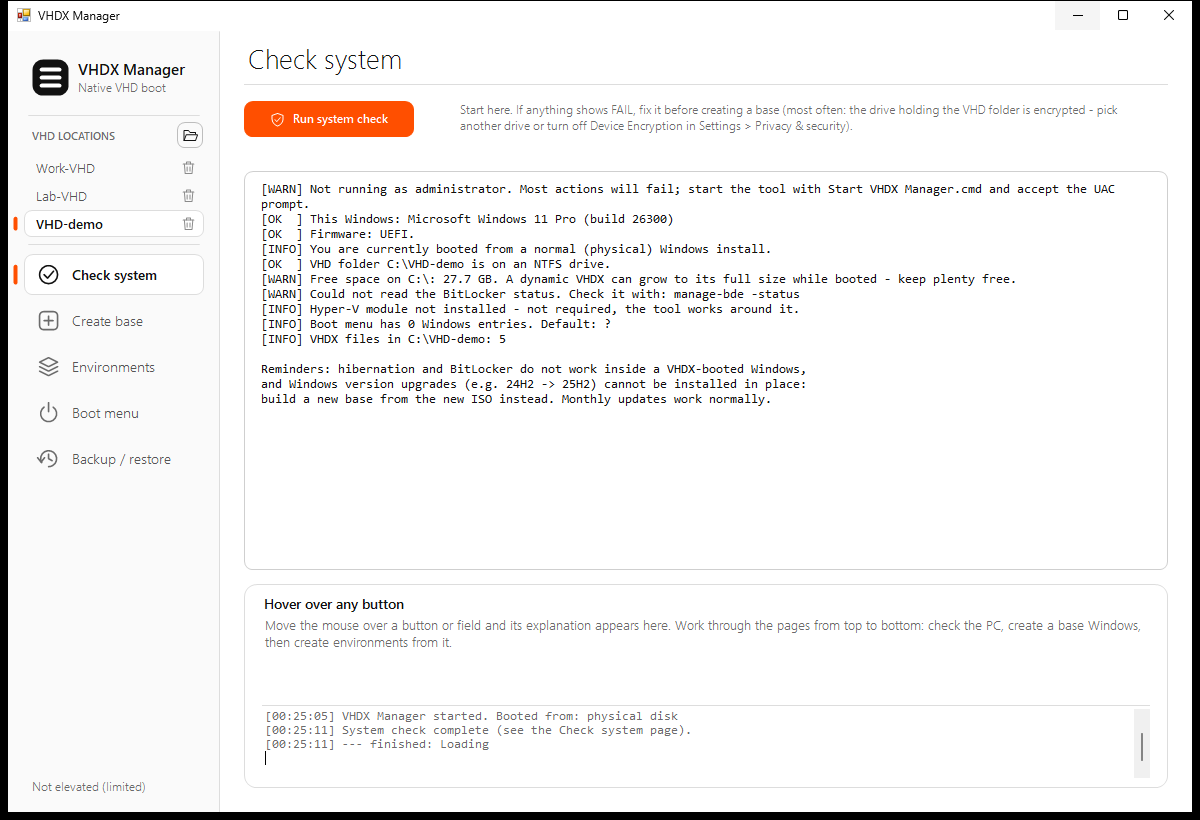
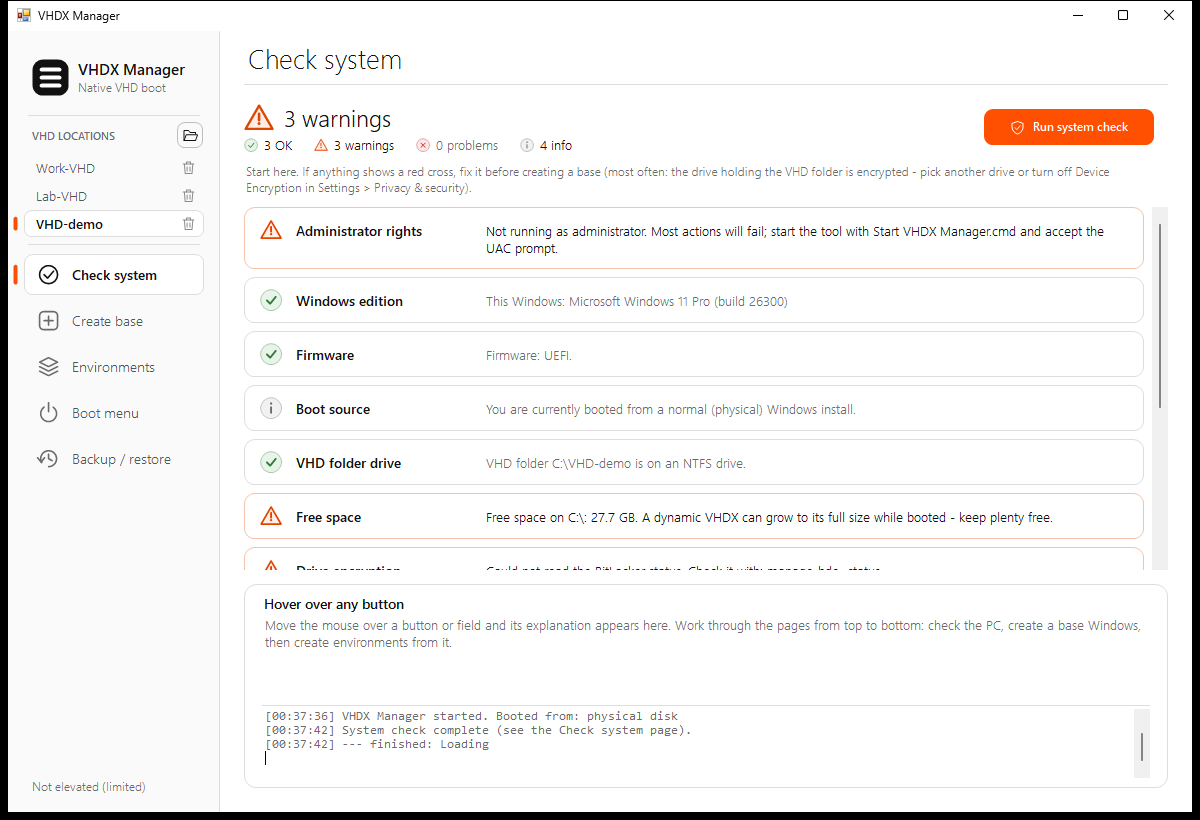
feat(ui): show system check as a summary and a list of status rows
- Add a status summary line with OK/warning/problem/info counts
- Render each check as a rounded row with an icon, title and detail
- Re-run the system check when the VHD location changes
- Update README (Step B, reference) and the check-system screenshot

diff --git a/README.md b/README.md
@@ -135,7 +135,7 @@ Good to know:
 - While an action is running the sidebar (pages and VHD locations list) is disabled and the cursor shows as busy. Long actions show a progress line above the log.
 - The window can be resized and maximized (minimum about 800x680). At small sizes the _Create base_ page scrolls and hides its side instructions. Lists and the log grow with the window.
 - Window size, position and the "keep newest backups" number are remembered in `%APPDATA%\VhdxBootManager\window.json`.
-- Switching to another location, or adding one with the Browse icon, refreshes all lists. Click the active location again to re-read it after changing files outside the tool (the log says _Refreshed._).
+- Switching to another location, or adding one with the Browse icon, refreshes all lists and re-runs the system check for that folder. Click the active location again to re-read it after changing files outside the tool (the log says _Refreshed._).
 - Locations are saved in `config.json` and nothing is assumed when none is saved: see [Step A](#step-a-set-your-vhd-location) and [Guide 9](#guide-9-work-with-several-vhd-locations).
 - Inside a VHDX-booted Windows the physical drive has a different letter (often `D:`). Pick the location again from there (Browse icon) if it is not listed.
 - Folder rules (plain ASCII path, no drive root, NTFS) are in [Step A](#step-a-set-your-vhd-location). If the folder does not exist, the tool creates it.
@@ -176,18 +176,30 @@ Rules for the folder:
 ![Check system page with the system check results](docs/images/01-check-system.png)
 
 1. Click **Check system** in the sidebar (or press **Ctrl+1**).
-2. Click **Run system check**. (It also runs once when the program starts.)
-3. Read the result. Each line starts with `OK`, `INFO`, `WARN` or `FAIL`. The first line reads `OK Running as administrator.` only when the tool is elevated; otherwise it is a `WARN` telling you to start it with `Start VHDX Manager.cmd` and accept the UAC prompt.
+2. Click **Run system check**. (It also runs once when the program starts, and again whenever you switch the VHD location.) Before the first check, or while no VHD location is set, the page shows a friendly placeholder instead of results: _No results yet_ / _Pick a VHD location first_.
+3. Read the **summary** at the top: a big status line (_Everything looks good_, _2 warnings_ or _1 problem to fix_) with small counts of OK, warnings, problems and info rows.
+4. Read the **list**, one rounded row per check with a status icon, a bold title and a one-line detail (long details wrap). The icon shapes differ, so you do not have to rely on colour:
 
-**Expected result:** a list showing Windows edition and build, UEFI firmware, whether you are booted from a VHDX, whether the VHD folder is on an NTFS drive, free space (a warning appears below 150 GB), BitLocker / Device Encryption status of that drive, whether the Hyper-V module is present, the number of boot menu entries and VHDX files found.
+   | Icon                       | Meaning                                                                    |
+   | -------------------------- | -------------------------------------------------------------------------- |
+   | Green check in a circle    | **OK** - this requirement is fine.                                         |
+   | Orange triangle with `!`   | **Warning** - not blocking, but read the detail (the row is outlined in orange). |
+   | Red cross in a circle      | **Problem** - fix it before creating a base (the row is outlined in red).  |
+   | Grey `i` in a circle       | **Info** - just good to know, nothing to fix.                              |
+
+5. Below the list a **Reminders** note says that hibernation and BitLocker do not work inside a VHDX-booted Windows, and that Windows version upgrades (for example 24H2 to 25H2) cannot be installed in place: build a new base from the new ISO instead; monthly updates work normally.
+
+The list scrolls (mouse wheel, scrollbar, or arrow / Page Up / Page Down keys) when it does not fit the window.
+
+**Expected result:** ten rows, in this order: _Administrator rights_ (a warning with a hint to start the tool with `Start VHDX Manager.cmd` and accept the UAC prompt when it is not elevated), _Windows edition_ (this Windows and its build; a warning for Home edition), _Firmware_ (UEFI), _Boot source_ (info: running from a VHDX or a physical install), _VHD folder drive_ (must be NTFS), _Free space_ (a warning appears below 150 GB), _Drive encryption_ (BitLocker / Device Encryption status of that drive), _Hyper-V module_ (info), _Boot menu_ (info: number of entries and the default) and _VHDX files in folder_ (info: how many).
 
 **What can go wrong**
 
-- `FAIL ... encrypted`: native VHDX boot does not work from an encrypted drive. Use another unencrypted NTFS drive (add a folder on it with the Browse icon under VHD LOCATIONS) or turn off Device Encryption in Settings > Privacy & security.
-- `FAIL ... must be NTFS`: pick an NTFS drive.
-- `WARN Home edition`: that is the Windows you are running now. It is fine as long as the Windows you put _inside_ the VHDX is Pro, Enterprise or Education.
-- `WARN Could not read the BitLocker status`: check manually with `manage-bde -status`.
-- The screenshot above was taken without administrator rights, so it shows "Boot menu has 0 Windows entries" and an unknown BitLocker status. On a normal (elevated) start these lines are filled in.
+- _Drive encryption_ shows a red cross ("... is BitLocker / Device Encryption encrypted"): native VHDX boot does not work from an encrypted drive. Use another unencrypted NTFS drive (add a folder on it with the Browse icon under VHD LOCATIONS) or turn off Device Encryption in Settings > Privacy & security.
+- _VHD folder drive_ shows a red cross ("... must be NTFS"): pick an NTFS drive.
+- _Windows edition_ warns about Home edition: that is the Windows you are running now. It is fine as long as the Windows you put _inside_ the VHDX is Pro, Enterprise or Education.
+- _Drive encryption_ warns "Could not read the BitLocker status": check manually with `manage-bde -status`.
+- The screenshot above was taken without administrator rights, so it starts with an _Administrator rights_ warning and (further down) shows "Boot menu has 0 Windows entries" and an unknown BitLocker status. On a normal (elevated) start these rows are filled in. The free-space warning there comes from that PC having less than 150 GB free.
 
 ### Step C: Create the base disk
 
@@ -479,7 +491,7 @@ Use several locations when your VHDX files are spread over folders or drives, fo
 
 1. Click another row in the list.
 
-**Expected result:** the orange marker moves to that row; the _Environments_ and _Backup / restore_ lists (and snapshots, and the `vhd-manager.log` that is written) now refer to that folder. Click the active row again to re-read the folder after you changed files outside the tool (log: _Refreshed._). The last active location is remembered when you close the tool.
+**Expected result:** the orange marker moves to that row; the _Environments_ and _Backup / restore_ lists (and snapshots, and the `vhd-manager.log` that is written) now refer to that folder, and the _Check system_ page shows a fresh system check for it. Click the active row again to re-read the folder after you changed files outside the tool (log: _Refreshed._). The last active location is remembered when you close the tool.
 
 **Remove a location from the list**
 
@@ -521,7 +533,11 @@ Keyboard: **Ctrl+1** to **Ctrl+5** switch pages (not while an action is running)
 
 | Control          | What it does                                                                         |
 | ---------------- | ------------------------------------------------------------------------------------ |
-| Run system check | Read-only. Checks edition, UEFI, NTFS, free space, BitLocker, running VHDX, Hyper-V module, boot menu, VHDX count. |
+| Run system check | Read-only. Re-runs all checks and rebuilds the list below. Runs automatically at startup and after switching the VHD location. |
+| Summary line     | _Everything looks good_ (only OK / info rows), _N warnings_ or _N problems to fix_, plus counts of OK, warnings, problems and info rows. |
+| Result list      | One row per check, in this order: Administrator rights, Windows edition, Firmware, Boot source, VHD folder drive, Free space, Drive encryption, Hyper-V module, Boot menu, VHDX files in folder. Each row has a status icon (green check = OK, orange triangle = warning, red cross = problem, grey i = info), a title and a detail line. Scrolls when it does not fit. |
+| Reminders note   | Hibernation and BitLocker do not work inside a VHDX-booted Windows; Windows version upgrades cannot be installed in place (build a new base from the new ISO). |
+| Empty state      | Before the first check: _No results yet_. With no VHD location set: _Pick a VHD location first_. |
 
 ### Page 2 - Create base
 
